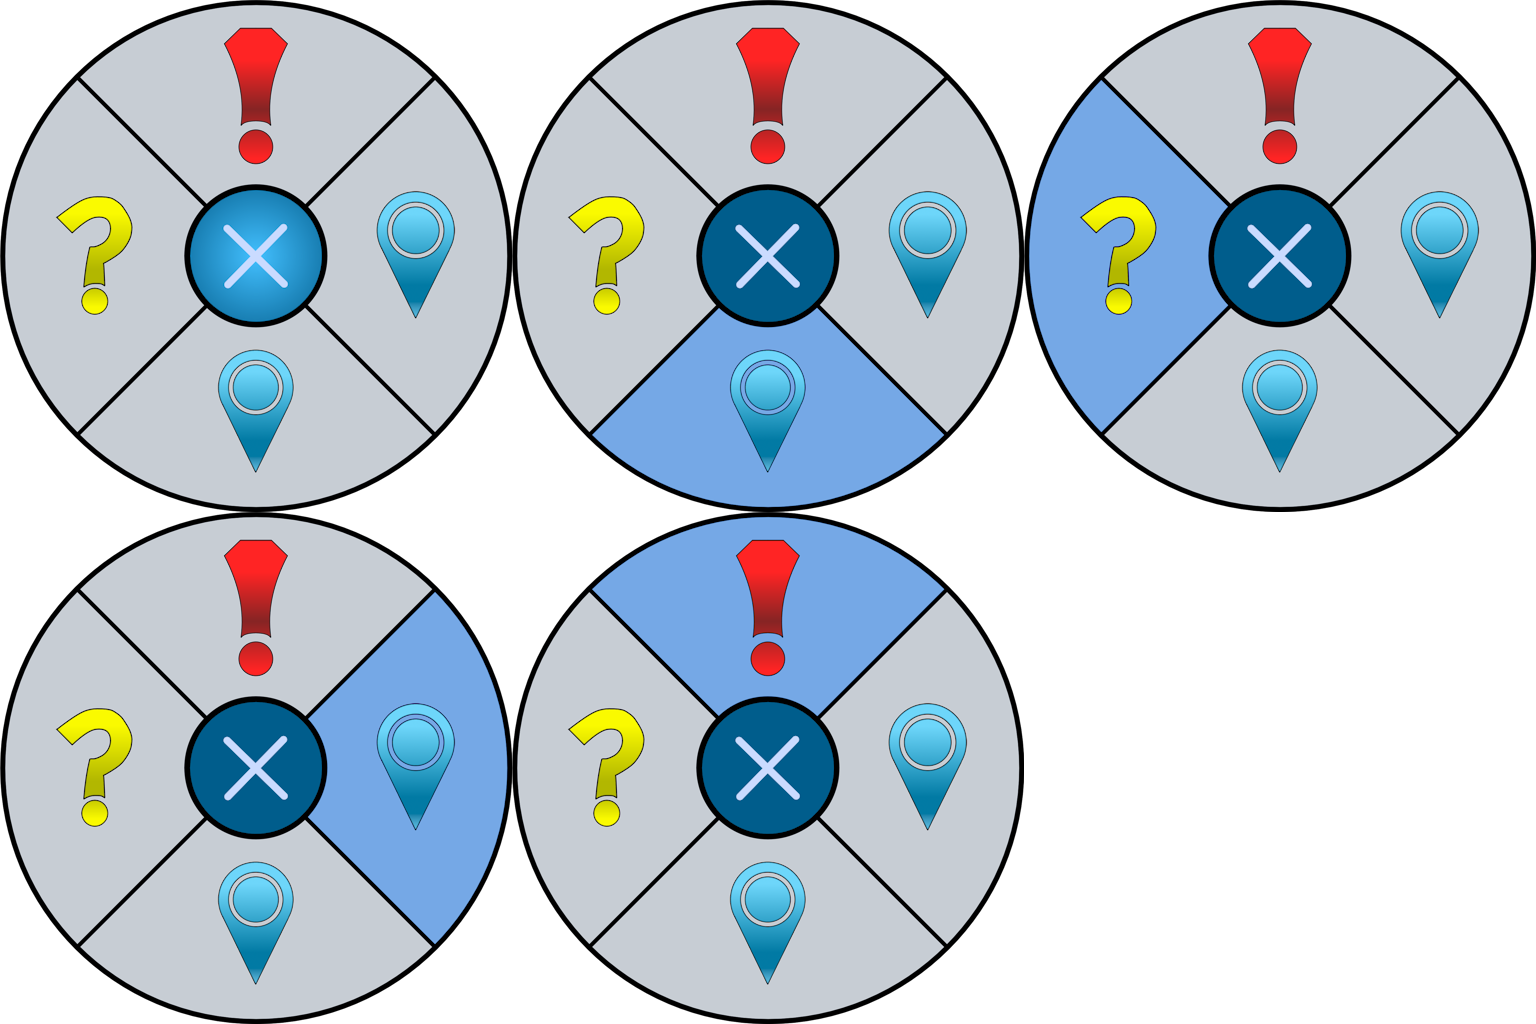
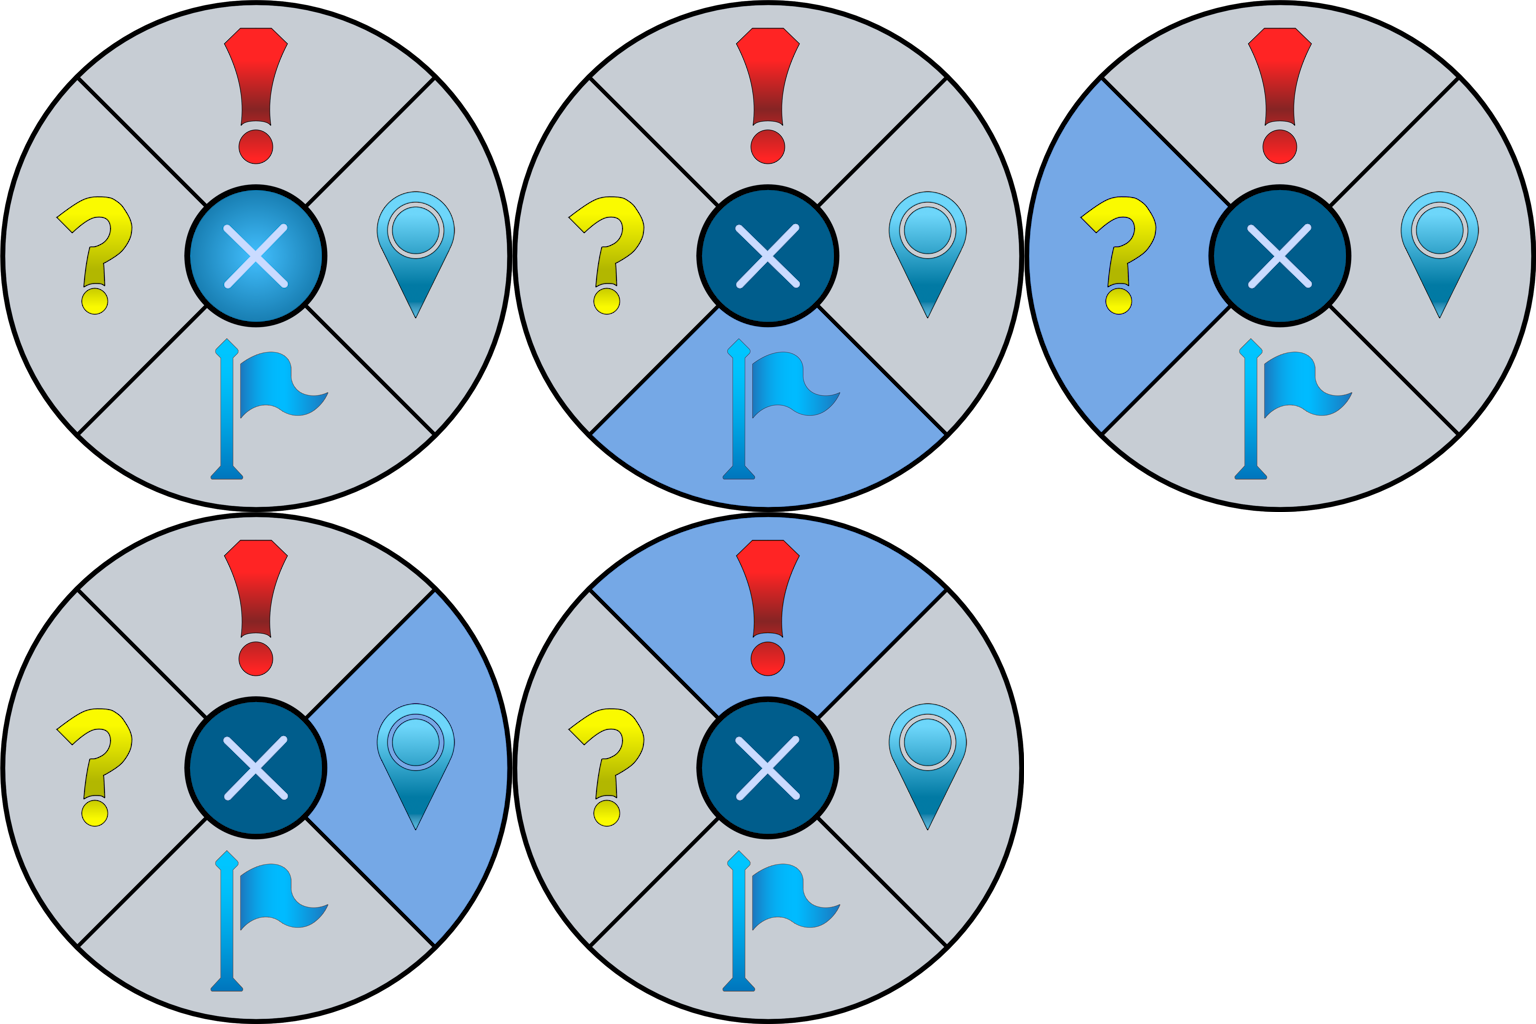
Add assist ping

diff --git a/DalamudPlugin/SmartPings/GroundPingView.cs b/DalamudPlugin/SmartPings/GroundPingView.cs
@@ -208,7 +208,7 @@ public class GroundPingView : IPluginUIView, IDisposable
                             case PingWheelSection.Left: pingType = GroundPing.Type.Question; break;
                             case PingWheelSection.Up: pingType = GroundPing.Type.Danger; break;
                             case PingWheelSection.Right: pingType = GroundPing.Type.Basic; break;
-                            case PingWheelSection.Down: pingType = GroundPing.Type.Basic; break;
+                            case PingWheelSection.Down: pingType = GroundPing.Type.Assist; break;
                         }
                     }
 
@@ -306,6 +306,9 @@ public class GroundPingView : IPluginUIView, IDisposable
                     break;
                 case GroundPing.Type.Danger:
                     pingDrawn = DrawDangerPing(ImGui.GetForegroundDrawList(), p.WorldPosition, p.DrawDuration, p.Author);
+                    break;
+                case GroundPing.Type.Assist:
+                    pingDrawn = DrawAssistPing(ImGui.GetForegroundDrawList(), p.WorldPosition, p.DrawDuration, p.Author);
                     break;
             }
 
@@ -421,6 +424,15 @@ public class GroundPingView : IPluginUIView, IDisposable
             ringPath: "danger_ping_ring_sheet.png", ringRowCount: 4, ringColCount: 8, ringTotalFrames: 31, ringTotalWidth: 2048, ringTotalHeight: 1024,
             pingPath: "danger_ping_sheet.png",      pingRowCount: 4, pingColCount: 4, pingTotalFrames: 51, pingTotalWidth: 2048, pingTotalHeight: 2048,
             pingLastFrameOfAuthorTag: 37, pingFrame0HoldFrames: 37, pingToRingSizeRatio: 0.45f, pingRingPivotOffset: new Vector2(0.05f, -0.02f), pingPivotOffset: new Vector2(0, 0.07f));
+    }
+
+    private bool DrawAssistPing(ImDrawListPtr drawList, Vector3 worldPosition, float time, string? author)
+    {
+        return DrawPing(drawList, worldPosition, scale: 0.8f, time, author,
+            minRingSize: 50, maxRingSize: 600,
+            ringPath: "assist_ping_ring_sheet.png", ringRowCount: 6, ringColCount: 8, ringTotalFrames: 45, ringTotalWidth: 2048, ringTotalHeight: 1536,
+            pingPath: "assist_ping_sheet.png",      pingRowCount: 8, pingColCount: 8, pingTotalFrames: 58, pingTotalWidth: 2048, pingTotalHeight: 2048,
+            pingLastFrameOfAuthorTag: 41, pingFrame0HoldFrames: 1, pingToRingSizeRatio: 1.0f, pingRingPivotOffset: Vector2.Zero, pingPivotOffset: new Vector2(0, 0.01f));
     }
 
     private void GetFrameUVs(int rowCount, int colCount, int totalWidth, int totalHeight, int frame, out Vector2 uv0, out Vector2 uv1)

diff --git a/DalamudPlugin/SmartPings/GroundPing.cs b/DalamudPlugin/SmartPings/GroundPing.cs
@@ -10,6 +10,7 @@ public class GroundPing
         Basic = 1,
         Question = 2,
         Danger = 3,
+        Assist = 4,
     }
 
     public Type PingType;
